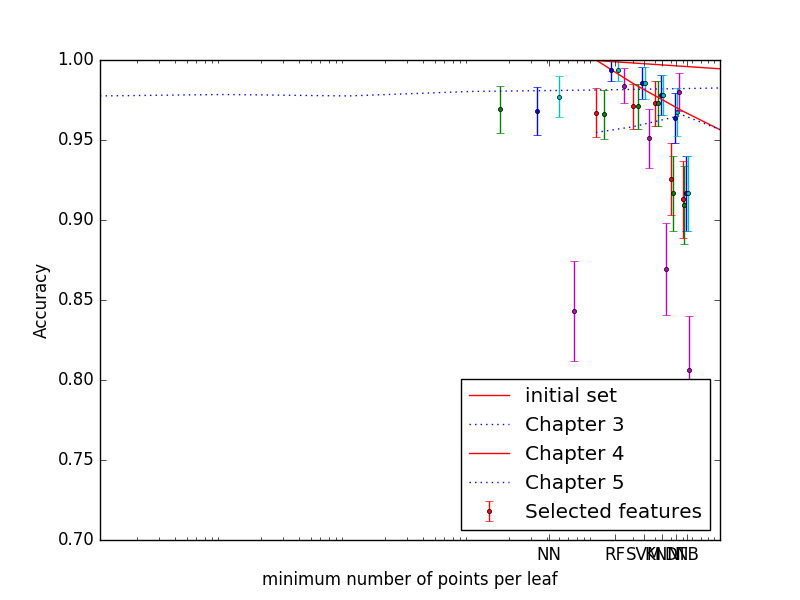
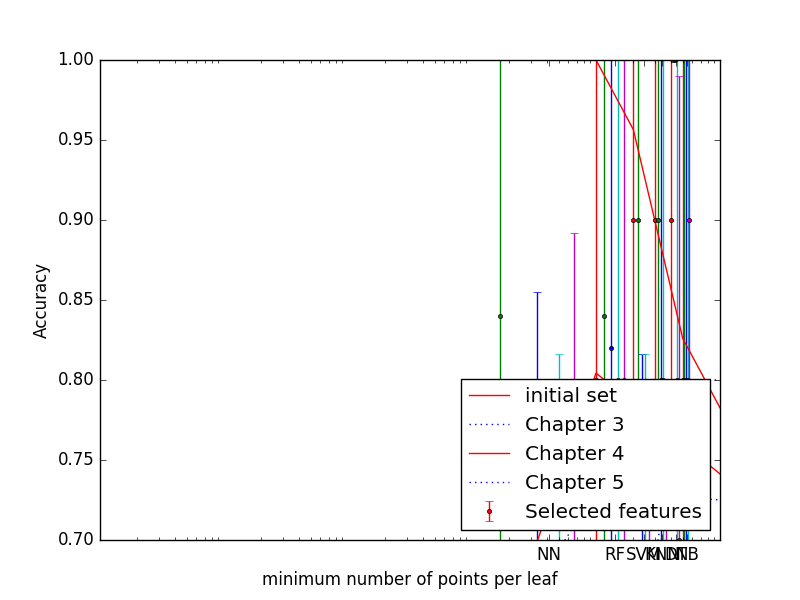
update plots and scripts

Changed region(s): [[0.6562, 0.09, 0.875, 0.63], [0.75, 0.87, 0.875, 0.9], [0.6875, 0.87, 0.7188, 0.9]]

diff --git a/PythonCode/crowdsignals_ch7_classification_our_Data.py b/PythonCode/crowdsignals_ch7_classification_our_Data.py
@@ -34,7 +34,7 @@ dataset_path = './intermediate_datafiles/'
 export_tree_path = './Example_graphs/Chapter7/'
 
 try:
-    dataset = pd.read_csv(dataset_path + 'chapter5_result_download.csv', index_col=0)
+    dataset = pd.read_csv(dataset_path + 'chapter5_our_result.csv', index_col=0)
 except IOError as e:
     print('File not found, try to run previous crowdsignals scripts first!')
     raise e
@@ -60,8 +60,8 @@ print 'Test set length is: ', len(test_X.index)
 
 # Select subsets of the features that we will consider:
 
-basic_features = ['acc_phone_x','acc_phone_y','acc_phone_z','acc_watch_x','acc_watch_y','acc_watch_z','gyr_phone_x','gyr_phone_y','gyr_phone_z','gyr_watch_x','gyr_watch_y','gyr_watch_z',
-                  'hr_watch_rate', 'light_phone_lux','mag_phone_x','mag_phone_y','mag_phone_z','mag_watch_x','mag_watch_y','mag_watch_z','press_phone_pressure']
+basic_features = ['gFx', 'gFy', 'gFz', 'ax', 'ay', 'az', 'wx', 'wy', 'wz', 'p', 'Bx', 'By', 'Bz', 'Azimuth',
+                         'Pitch', 'Roll', 'Gain']
 pca_features = ['pca_1','pca_2','pca_3','pca_4','pca_5','pca_6','pca_7']
 time_features = [name for name in dataset.columns if '_temp_' in name]
 freq_features = [name for name in dataset.columns if (('_freq' in name) or ('_pse' in name))]
@@ -76,10 +76,10 @@ features_after_chapter_4 = list(set().union(basic_features, pca_features, time_f
 features_after_chapter_5 = list(set().union(basic_features, pca_features, time_features, freq_features, cluster_features))
 
 
-# First, let us consider the performance over a selection of features:
+#First, let us consider the performance over a selection of features:
 
 # fs = FeatureSelectionClassification()
-
+#
 # features, ordered_features, ordered_scores = fs.forward_selection(50, train_X[features_after_chapter_5], train_y)
 # print ordered_scores
 # print ordered_features
@@ -91,9 +91,10 @@ features_after_chapter_5 = list(set().union(basic_features, pca_features, time_f
 
 # Based on the plot we select the top 10 features.
 
-selected_features = ['acc_phone_y_freq_0.0_Hz_ws_40', 'press_phone_pressure_temp_mean_ws_120', 'gyr_phone_x_temp_std_ws_120',
-                     'mag_watch_y_pse', 'mag_phone_z_max_freq', 'gyr_watch_y_freq_weighted', 'gyr_phone_y_freq_1.0_Hz_ws_40',
-                     'acc_phone_x_freq_1.9_Hz_ws_40', 'mag_watch_z_freq_0.9_Hz_ws_40', 'acc_watch_y_freq_0.5_Hz_ws_40']
+selected_features = ['az_freq_0.0_Hz_ws_40', 'Bz_freq_0.4_Hz_ws_40', 'Bx_freq_weighted',
+                     'Azimuth_freq_1.4_Hz_ws_40', 'pca_7_temp_std_ws_120', 'gFx_freq_0.1_Hz_ws_40',
+                     'Azimuth_freq_0.5_Hz_ws_40', 'gFy_freq_2.0_Hz_ws_40', 'ay_freq_1.9_Hz_ws_40',
+                     'wx_freq_1.5_Hz_ws_40']
 
 # Let us first study the impact of regularization and model complexity: does regularization prevent overfitting?
 
@@ -109,9 +110,11 @@ performance_test = []
 repeats = 20
 
 for reg_param in reg_parameters:
+    print reg_param
     performance_tr = 0
     performance_te = 0
     for i in range(0, repeats):
+        print i
         class_train_y, class_test_y, class_train_prob_y, class_test_prob_y = learner.feedforward_neural_network(train_X, train_y,
                                                                                                             test_X, hidden_layer_sizes=(250, ), alpha=reg_param, max_iter=500,
                                                                                                             gridsearch=False)
@@ -140,6 +143,7 @@ performance_training = []
 performance_test = []
 
 for no_points_leaf in leaf_settings:
+    print no_points_leaf
     class_train_y, class_test_y, class_train_prob_y, class_test_prob_y = learner.decision_tree(train_X[selected_features], train_y, test_X[selected_features], min_samples_leaf=no_points_leaf,
                                                                                                gridsearch=False, print_model_details=False)
     performance_training.append(eval.accuracy(train_y, class_train_y))
@@ -167,6 +171,7 @@ repeats = 5
 scores_over_all_algs = []
 
 for i in range(0, len(possible_feature_sets)):
+    print i
     selected_train_X = train_X[possible_feature_sets[i]]
     selected_test_X = test_X[possible_feature_sets[i]]
 
@@ -180,6 +185,7 @@ for i in range(0, len(possible_feature_sets)):
     performance_te_svm = 0
 
     for repeat in range(0, repeats):
+        print repeat
         class_train_y, class_test_y, class_train_prob_y, class_test_prob_y = learner.feedforward_neural_network(selected_train_X, train_y, selected_test_X, gridsearch=True)
         performance_tr_nn += eval.accuracy(train_y, class_train_y)
         performance_te_nn += eval.accuracy(test_y, class_test_y)
